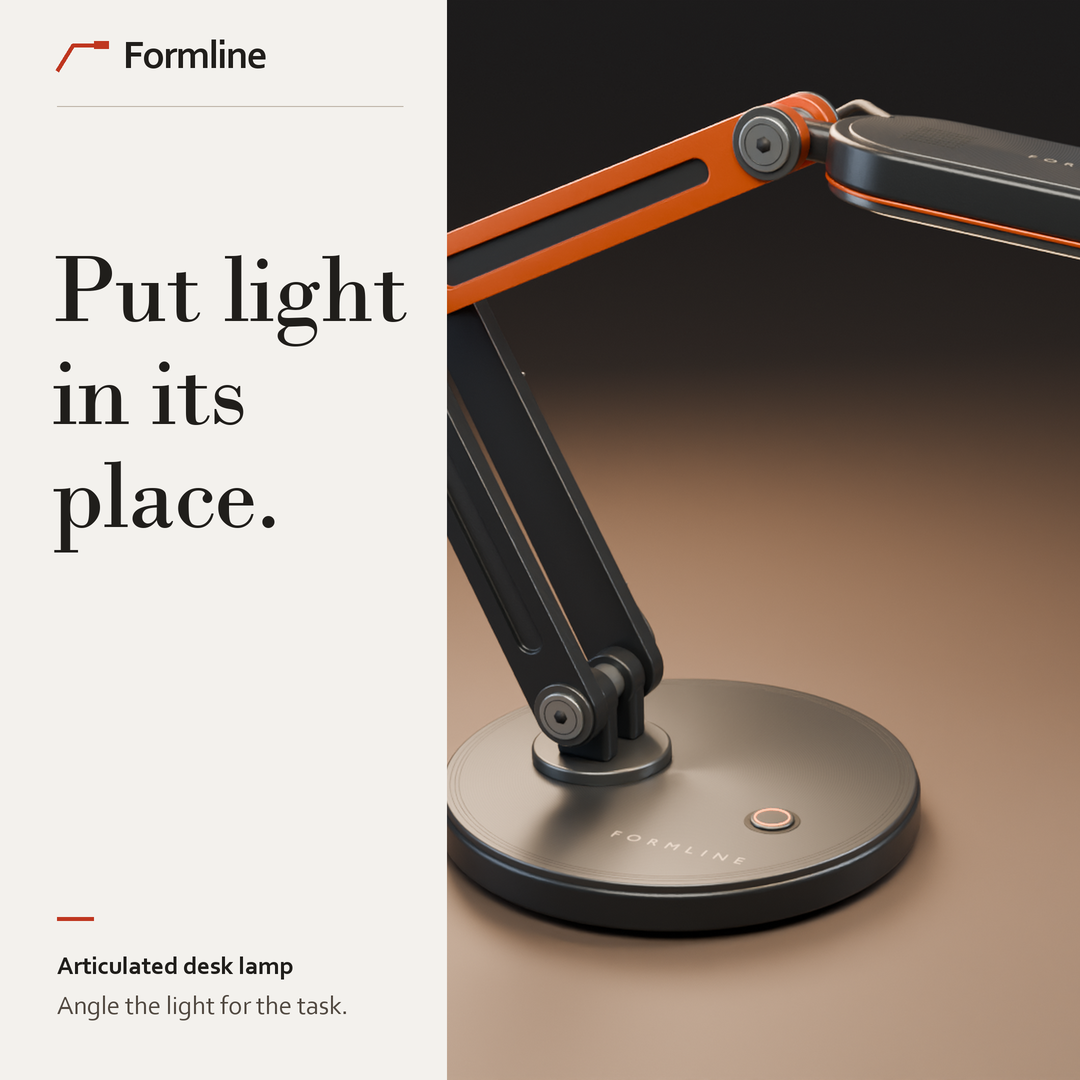
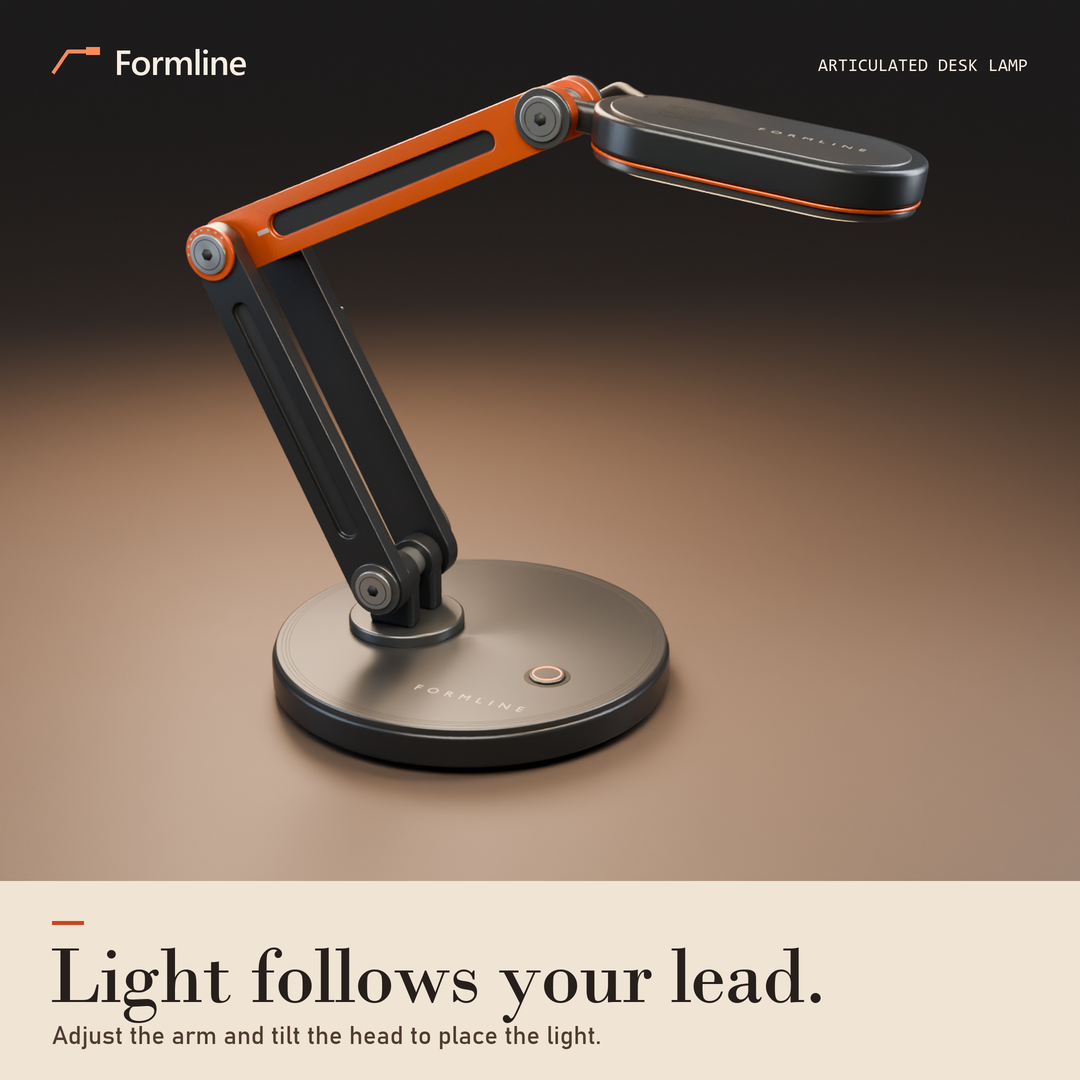
Redesign Cirrus and Formline campaign artwork

diff --git a/render_ads.py b/render_ads.py
@@ -1,4 +1,4 @@
-"""Editable art direction and PNG exporter for the Cirrus and Formline concepts."""
+"""Compose the Cirrus and Formline product advertisements from the studio renders."""
 
 import argparse
 import os
@@ -14,39 +14,30 @@ SCALE = 2
 RESAMPLE = Image.Resampling.LANCZOS
 WINDOWS_FONTS = Path(os.environ.get("WINDIR", "C:/Windows")) / "Fonts"
 FONTS = {
-    "cirrus": ("bahnschrift.ttf", "arial.ttf", "DejaVuSans.ttf"),
-    "cirrus-bold": ("GOTHICB.TTF", "arialbd.ttf", "DejaVuSans-Bold.ttf"),
-    "formline": ("BOD_R.TTF", "times.ttf", "DejaVuSerif.ttf"),
-    "formline-bold": ("corbelb.ttf", "arialbd.ttf", "DejaVuSans-Bold.ttf"),
-    "formline-text": ("corbel.ttf", "arial.ttf", "DejaVuSans.ttf"),
+    "sans": ("bahnschrift.ttf", "arial.ttf", "DejaVuSans.ttf"),
+    "bold": ("seguisb.ttf", "arialbd.ttf", "DejaVuSans-Bold.ttf"),
+    "mono": ("consola.ttf", "DejaVuSansMono.ttf"),
+    "serif": ("BOD_R.TTF", "times.ttf", "DejaVuSerif.ttf"),
 }
 
 CIRRUS = {
-    "ground": "#0b1820",
-    "mat": "#12252d",
-    "type": "#ecf6f3",
-    "muted": "#adc3c6",
-    "accent": "#9ae9ce",
-    "rule": "#37535a",
-}
-FORMLINE = {
-    "paper": "#f3f1ed",
-    "mat": "#242421",
-    "ink": "#201e1b",
-    "muted": "#514941",
-    "accent": "#bf361f",
-    "rule": "#beb5a9",
+    "paper": "#e9f0e9",
+    "ink": "#142b2a",
+    "muted": "#3f5955",
+    "rule": "#91a7a0",
+    "jade": "#b4d8bf",
+    "dark": "#192a2f",
+    "light": "#e9f0e9",
 }
 
-# Crops are normalized source coordinates (left, top, right, bottom).
-# Each focal point is Pillow's alignment within the remaining crop range.
-PHOTOS = {
-    "cirrus-square-hero": {"focus": (0.50, 0.48)},
-    "cirrus-vertical-hero": {"focus": (0.50, 0.49)},
-    "cirrus-vertical-exploded": {"focus": (0.50, 0.50)},
-    "formline-square-hero": {"focus": (0.50, 0.50)},
-    "formline-vertical-hero": {"focus": (0.50, 0.50)},
-    "formline-vertical-detail": {"focus": (0.50, 0.50)},
+FORMLINE = {
+    "paper": "#f0e4d5",
+    "dark": "#201d1c",
+    "ink": "#261f1b",
+    "light": "#f8eee3",
+    "muted": "#4e3c33",
+    "accent": "#c44821",
+    "copper": "#fa8a59",
 }
 
 
@@ -62,9 +53,10 @@ def typeface(role, size):
 
 
 class Layout:
-    """Pixel-based page with baseline typography and supersampled artwork."""
+    """Lay out at double resolution and export with antialiased type and rules."""
 
     def __init__(self, height, ground):
+        self.height = height
         self.image = Image.new("RGB", (WIDTH * SCALE, height * SCALE), ground)
         self.draw = ImageDraw.Draw(self.image)
 
@@ -76,9 +68,15 @@ class Layout:
             joint="curve",
         )
 
-    def rect(self, x, y, w, h, fill):
+    def rect(self, x, y, width, height, fill):
         self.draw.rectangle(
-            (x * SCALE, y * SCALE, (x + w) * SCALE - 1, (y + h) * SCALE - 1),
+            (x * SCALE, y * SCALE, (x + width) * SCALE - 1, (y + height) * SCALE - 1),
+            fill=fill,
+        )
+
+    def circle(self, x, y, radius, fill):
+        self.draw.ellipse(
+            ((x-radius)*SCALE, (y-radius)*SCALE, (x+radius)*SCALE, (y+radius)*SCALE),
             fill=fill,
         )
 
@@ -90,129 +88,135 @@ class Layout:
         width = font.getlength(value) + max(len(value) - 1, 0) * gap
         if align == "right":
             start -= width
-        if start < 0 or start + width > WIDTH * SCALE:
-            raise ValueError(f"Text exceeds the canvas: {value!r}")
+        left, top, right, bottom = font.getbbox(value, anchor="ls")
+        if start + min(left, 0) < 0 or start + max(width, right) > WIDTH * SCALE:
+            raise ValueError(f"Text exceeds the canvas width: {value!r}")
+        if baseline + top < 0 or baseline + bottom > self.height * SCALE:
+            raise ValueError(f"Text exceeds the canvas height: {value!r}")
         if not tracking:
             self.draw.text((start, baseline), value, font=font, fill=fill, anchor="ls")
             return
         for index, char in enumerate(value):
-            prefix = value[: index + 1]
+            prefix = value[:index + 1]
             position = start + font.getlength(prefix) - font.getlength(char) + index * gap
             self.draw.text((position, baseline), char, font=font, fill=fill, anchor="ls")
 
-    def photo(self, image, box, treatment, mat):
-        x, y, w, h = box
-        settings = PHOTOS[treatment]
-        if "crop" in settings:
-            left, top, right, bottom = settings["crop"]
-            image = image.crop(
-                (
-                    round(left * image.width),
-                    round(top * image.height),
-                    round(right * image.width),
-                    round(bottom * image.height),
-                )
-            )
-        size = (w * SCALE, h * SCALE)
-        if settings.get("fit") == "contain":
-            fitted = ImageOps.contain(image, size, method=RESAMPLE)
-            center_x, center_y = settings["focus"]
-            left = round((size[0] - fitted.width) * center_x)
-            top = round((size[1] - fitted.height) * center_y)
-        else:
-            fitted = ImageOps.fit(image, size, method=RESAMPLE, centering=settings["focus"])
-            left = top = 0
-        plate = Image.new("RGBA", size, mat)
-        plate.alpha_composite(fitted, (left, top))
-        self.image.paste(plate.convert("RGB"), (x * SCALE, y * SCALE))
+    def photo(self, image, box, *, focus=(0.5, 0.5)):
+        """Use a crop only to fill the frame, without changing the source render."""
+        x, y, width, height = box
+        if min(x, y) < 0 or x + width > WIDTH or y + height > self.height:
+            raise ValueError(f"Photo exceeds the canvas: {box!r}")
+        fitted = ImageOps.fit(
+            image, (width*SCALE, height*SCALE), method=RESAMPLE, centering=focus
+        )
+        self.image.paste(fitted, (x*SCALE, y*SCALE))
 
     def finish(self):
-        return self.image.resize(
-            (self.image.width // SCALE, self.image.height // SCALE), RESAMPLE
+        return self.image.resize((WIDTH, self.height), RESAMPLE)
+
+
+def cirrus_mark(page):
+    c = CIRRUS
+    for offset in (0, 8, 16):
+        page.line(
+            [(53, 52+offset), (69, 52+offset), (76, 47+offset), (89, 47+offset)],
+            c["ink"],
+            3,
         )
-
-
-def cirrus_wordmark(page):
-    accent = CIRRUS["accent"]
-    page.line([(59, 50), (75, 50), (81, 45), (96, 45)], accent, 3)
-    page.line([(59, 58), (81, 58), (87, 53), (96, 53)], accent, 3)
-    page.line([(59, 66), (87, 66), (93, 61), (96, 61)], accent, 3)
-    page.text(111, 69, "Cirrus", "cirrus-bold", 37, CIRRUS["type"], tracking=-0.8)
-    page.text(
-        1022, 65, "Indoor environmental sensor", "cirrus", 23,
-        CIRRUS["muted"], align="right"
-    )
-    page.line([(58, 95), (1022, 95)], CIRRUS["rule"])
+    page.text(105, 74, "Cirrus", "bold", 38, c["ink"], tracking=-1.1)
+    page.text(1028, 71, "ENVIRONMENTAL SENSOR  /  C-01", "mono", 18, c["muted"], align="right")
+    page.line([(52, 101), (1028, 101)], c["rule"])
 
 
 def cirrus_square(hero):
     c = CIRRUS
-    page = Layout(1080, c["ground"])
-    cirrus_wordmark(page)
-    page.text(53, 238, "Read the air.", "cirrus", 126, c["type"], tracking=-4)
-    page.photo(hero, (58, 278, 964, 591), "cirrus-square-hero", c["mat"])
-    page.line([(58, 923), (1022, 923)], c["rule"])
-    page.rect(58, 957, 4, 65, c["accent"])
-    page.text(80, 982, "Get to know the air", "cirrus", 30, c["type"])
-    page.text(80, 1018, "in the spaces you use every day.", "cirrus", 30, c["type"])
+    page = Layout(1080, c["paper"])
+    cirrus_mark(page)
+    page.rect(418, 201, 610, 610, c["jade"])
+    page.photo(hero, (397, 180, 610, 610))
+
+    page.text(52, 243, "INDOOR AIR", "mono", 18, c["muted"], tracking=1.6)
+    page.text(47, 368, "Air", "bold", 122, c["ink"], tracking=-5)
+    page.text(46, 473, "in view.", "bold", 88, c["ink"], tracking=-4)
+    for y, text in (
+        (553, "A wall-mounted sensor"),
+        (591, "with a vented face and"),
+        (629, "a visible status light."),
+    ):
+        page.text(52, y, text, "sans", 26, c["muted"])
+    page.circle(59, 714, 6, "#4d8068")
+    page.line([(77, 714), (160, 714)], c["rule"])
+
+    page.rect(0, 865, 1080, 215, c["jade"])
+    page.text(52, 925, "A closer look at the enclosure", "bold", 28, c["ink"])
+    page.line([(52, 949), (1028, 949)], "#7a9c87")
+    for x, text in ((52, "Vented front"), (383, "Status indicator"), (713, "Wall cleat")):
+        page.text(x, 1010, text, "sans", 26, c["ink"])
     return page.finish()
 
 
 def cirrus_vertical(hero, exploded):
     c = CIRRUS
-    page = Layout(1350, c["ground"])
-    cirrus_wordmark(page)
-    page.text(53, 234, "Read the air.", "cirrus", 126, c["type"], tracking=-4)
-    page.text(59, 283, "Get to know the air indoors.", "cirrus", 29, c["muted"])
-    page.photo(hero, (58, 323, 964, 616), "cirrus-vertical-hero", c["mat"])
-    page.line([(58, 975), (1022, 975)], c["rule"])
-    page.rect(58, 1018, 4, 31, c["accent"])
-    page.text(75, 1044, "Inside Cirrus", "cirrus", 37, c["type"], tracking=-0.5)
-    page.text(58, 1091, "A closer look at the sensor", "cirrus", 24, c["muted"])
-    page.text(58, 1122, "and its enclosure.", "cirrus", 24, c["muted"])
-    page.photo(exploded, (440, 1002, 582, 277), "cirrus-vertical-exploded", c["mat"])
-    page.line([(58, 1300), (1022, 1300)], c["rule"])
+    page = Layout(1350, c["paper"])
+    cirrus_mark(page)
+    page.text(47, 244, "Air in view.", "bold", 132, c["ink"], tracking=-5.4)
+
+    page.rect(72, 311, 575, 575, c["jade"])
+    page.photo(hero, (52, 291, 575, 575))
+    page.text(691, 352, "A wall-mounted sensor", "bold", 28, c["ink"])
+    page.text(691, 391, "for indoor air.", "sans", 27, c["muted"])
+    for y, title, detail in (
+        (472, "Vented face", "Air intake at the front"),
+        (615, "Status light", "Visible on the enclosure"),
+        (758, "Wall cleat", "A separate mounting plate"),
+    ):
+        page.line([(691, y), (1028, y)], c["rule"])
+        page.text(691, y+53, title, "bold", 29, c["ink"])
+        page.text(691, y+90, detail, "sans", 24, c["muted"])
+
+    page.rect(0, 924, 1080, 426, c["dark"])
+    page.text(52, 998, "EXPLODED ASSEMBLY", "mono", 18, "#b4d8bf", tracking=1)
+    page.text(52, 1092, "Inside", "bold", 70, c["light"], tracking=-2)
+    page.text(52, 1170, "Cirrus.", "bold", 70, c["light"], tracking=-2)
+    page.text(54, 1258, "Housing, gasket, and board", "sans", 24, c["light"])
+    page.photo(exploded, (406, 945, 622, 395))
     return page.finish()
 
 
-def formline_wordmark(page):
+def formline_mark(page):
     f = FORMLINE
-    page.line([(57, 71), (73, 45), (97, 45)], f["accent"], 4)
-    page.rect(94, 41, 15, 8, f["accent"])
-    page.text(123, 68, "Formline", "formline-bold", 40, f["ink"], tracking=-1.3)
+    page.line([(53, 73), (68, 51), (90, 51)], f["copper"], 4)
+    page.rect(86, 47, 14, 8, f["copper"])
+    page.text(114, 75, "Formline", "bold", 35, f["light"], tracking=-0.9)
+    page.text(1028, 71, "ARTICULATED DESK LAMP", "mono", 18, f["light"], align="right")
 
 
 def formline_square(hero):
     f = FORMLINE
-    page = Layout(1080, f["paper"])
-    page.photo(hero, (447, 0, 633, 1080), "formline-square-hero", f["mat"])
-    formline_wordmark(page)
-    page.line([(57, 106), (403, 106)], f["rule"])
-    for y, value in ((321, "Put light"), (424, "in its"), (527, "place.")):
-        page.text(51, y, value, "formline", 99, f["ink"], tracking=-2)
-    page.rect(57, 917, 37, 4, f["accent"])
-    page.text(57, 974, "Articulated desk lamp", "formline-bold", 25, f["ink"])
-    page.text(57, 1014, "Angle the light for the task.", "formline-text", 26, f["muted"])
+    page = Layout(1080, f["dark"])
+    page.photo(hero, (0, 0, 1080, 890))
+    formline_mark(page)
+    page.rect(0, 881, 1080, 199, f["paper"])
+    page.rect(52, 921, 32, 4, f["accent"])
+    page.text(48, 1002, "Light follows your lead.", "serif", 82, f["ink"], tracking=-1.5)
+    page.text(52, 1044, "Adjust the arm and tilt the head to place the light.", "sans", 25, f["muted"])
     return page.finish()
 
 
 def formline_vertical(hero, detail):
     f = FORMLINE
-    page = Layout(1350, f["paper"])
-    page.photo(hero, (256, 349, 824, 1001), "formline-vertical-hero", f["mat"])
-    formline_wordmark(page)
-    page.text(
-        1022, 65, "Articulated desk lamp", "formline-bold", 25, f["ink"], align="right"
-    )
-    page.line([(57, 102), (1022, 102)], f["rule"])
-    page.text(50, 221, "Put light in", "formline", 110, f["ink"], tracking=-2.4)
-    page.text(51, 319, "its place.", "formline", 110, f["ink"], tracking=-2.4)
-    page.rect(57, 400, 35, 4, f["accent"])
-    page.text(57, 454, "Angle the light", "formline-text", 25, f["muted"])
-    page.text(57, 483, "for the task.", "formline-text", 25, f["muted"])
-    page.rect(50, 933, 306, 247, f["paper"])
-    page.photo(detail, (57, 940, 292, 233), "formline-vertical-detail", f["mat"])
-    page.text(57, 1211, "Hinge detail", "formline-bold", 22, f["ink"])
+    page = Layout(1350, f["dark"])
+    formline_mark(page)
+    page.line([(52, 102), (1028, 102)], "#645147")
+    page.text(48, 222, "Light follows your lead.", "serif", 94, f["light"], tracking=-1.7)
+    page.photo(hero, (52, 264, 976, 804))
+
+    page.rect(0, 1068, 1080, 282, f["paper"])
+    page.rect(52, 1110, 33, 4, f["accent"])
+    page.text(52, 1163, "A closer look", "serif", 49, f["ink"], tracking=-0.5)
+    page.text(53, 1220, "Twin arms and a pivoting head", "sans", 26, f["muted"])
+    page.text(53, 1255, "let you reposition the light.", "sans", 26, f["muted"])
+    page.photo(detail, (669, 1087, 359, 244), focus=(0.42, 0.72))
     return page.finish()
 
 
@@ -221,7 +225,7 @@ def read_render(folder, filename):
     for path in paths:
         if path.is_file():
             with Image.open(path) as image:
-                return ImageOps.exif_transpose(image).convert("RGBA")
+                return ImageOps.exif_transpose(image).convert("RGB")
     raise FileNotFoundError(f"Missing Blender render: {paths[0]} or {paths[1]}")
 
 
@@ -245,7 +249,7 @@ def main():
             detail = read_render(args.formline_dir, "detail.png")
             layouts["formline-square"] = formline_square(hero)
             layouts["formline-vertical"] = formline_vertical(hero, detail)
-    except OSError as error:
+    except (OSError, ValueError) as error:
         parser.exit(1, f"{error}\n")
 
     args.output_dir.mkdir(parents=True, exist_ok=True)

diff --git a/README.md b/README.md
@@ -1,18 +1,18 @@
 # Cirrus and Formline product campaigns
 
-Two original fictional product campaigns built around editable Blender models. Each campaign has a square 1080 × 1080 placement and a portrait 1080 × 1350 placement with its own composition.
+Product advertising and art direction for two industrial design projects. Each campaign uses original Blender renders in a 1080 × 1080 square placement and a separately composed 1080 × 1350 portrait placement.
 
 <img src="exports/cirrus-square.png" alt="Cirrus square advertisement" width="420"> <img src="exports/formline-square.png" alt="Formline square advertisement" width="420">
 
 ## Cirrus
 
-**Read the air.** A cool palette frames the environmental sensor. The portrait places the enclosure and an exploded view together so the reader can see the assembly behind the silhouette.
+**Air in view.** A pale green layout frames the complete wall-mounted sensor. The portrait pairs its front face and mounting details with a full exploded assembly.
 
 [Square placement](exports/cirrus-square.png) · [Portrait placement](exports/cirrus-vertical.png) · [Blender project](https://github.com/muhammmmadziam1234-eng/cirrus-environment-sensor)
 
 ## Formline
 
-**Put light in its place.** A warm palette and a serif headline frame the articulated desk lamp. The portrait pairs the full lamp with a close view of a joint.
+**Light follows your lead.** Warm studio lighting shows the full lamp silhouette. The portrait places a joint close-up below the complete product to show how the lamp articulates.
 
 [Square placement](exports/formline-square.png) · [Portrait placement](exports/formline-vertical.png) · [Blender project](https://github.com/muhammmmadziam1234-eng/formline-articulated-lamp)
 
